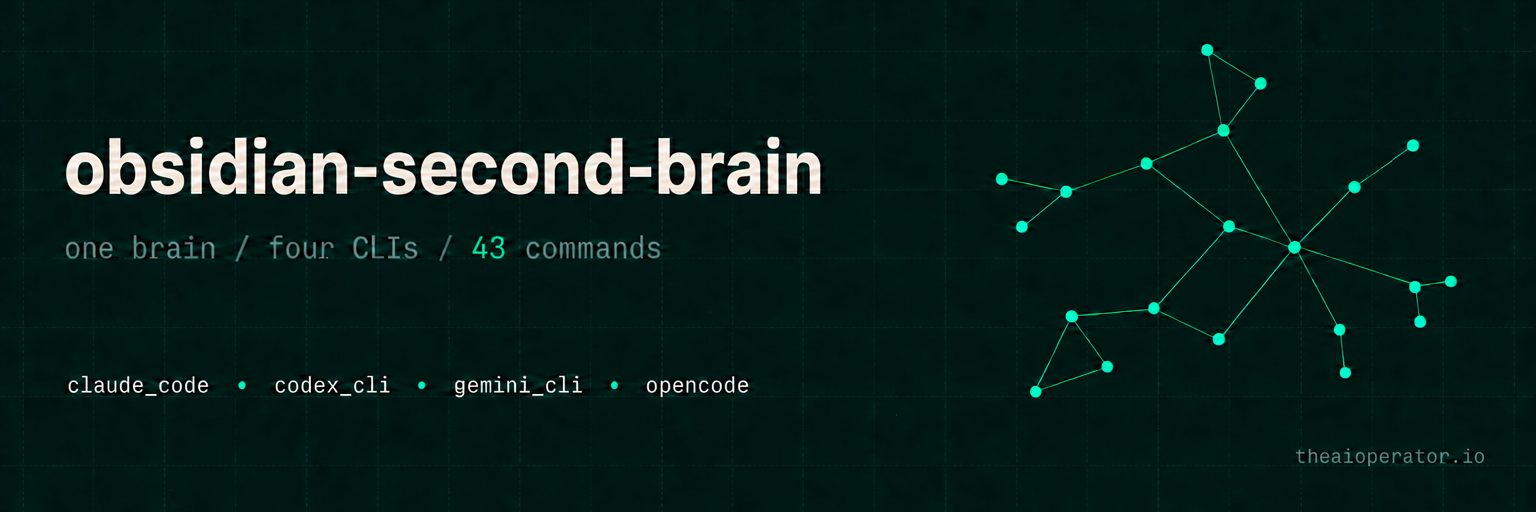
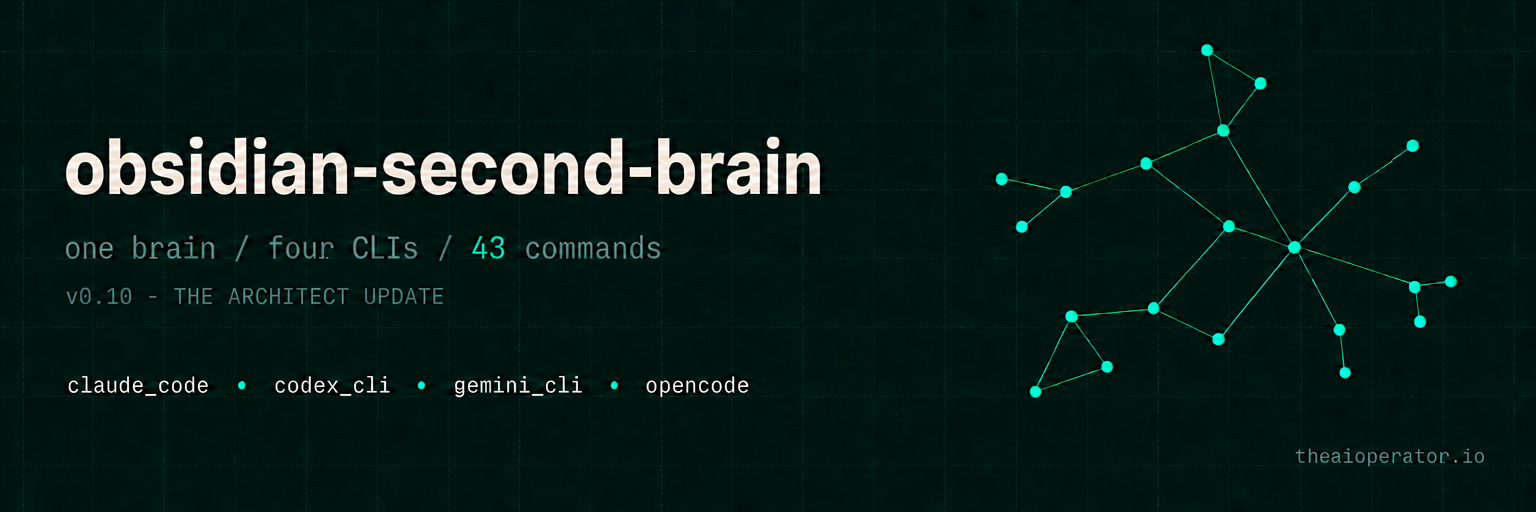
Release v0.10.0 - The Architect
Roll the CHANGELOG [Unreleased] into [0.10.0] (2026-05-31, "The
Architect"). Bump version in pyproject.toml and CITATION.cff; JSON-LD
softwareVersion -> 0.10.0 and command count 32 -> 43; README what's-new
callout updated to highlight /obsidian-architect. Banner gains a
"v0.10 - THE ARCHITECT UPDATE" line.

Headline since 0.9.0: /obsidian-architect (codebase -> maintained vault
docs, sentinel-safe refresh), 4 commands (calendar reconcile,
vault-deep-synthesis, idea-discovery, panel), Codex executable runner,
commit-decisions miner, and a substitution-character CI gate. 43
commands total.

Also records the fork-merge project as complete in FORK_INSIGHTS.md:
~32 of 50 shipped, every P0 done, with an explicit won't-do list for
the niche/untestable remainder.

diff --git a/_includes/head_custom.html b/_includes/head_custom.html
@@ -15,11 +15,11 @@
   "applicationCategory": "DeveloperApplication",
   "applicationSubCategory": "AI CLI skill",
   "operatingSystem": "macOS, Linux",
-  "description": "A cross-CLI skill that turns any Obsidian vault into a living AI-first second brain. Runs in Claude Code, OpenAI Codex CLI, Google Gemini CLI, and OpenCode from one platform-neutral source via a build-time adapter pattern. 32 commands across 4 categories (vault, thinking, research, meta). Includes a write-time AI-first validator hook and a /create-command interview flow. Open-source, MIT licensed.",
+  "description": "A cross-CLI skill that turns any Obsidian vault into a living AI-first second brain. Runs in Claude Code, OpenAI Codex CLI, Google Gemini CLI, and OpenCode from one platform-neutral source via a build-time adapter pattern. 43 commands across 4 categories (vault, thinking, research, meta). Includes a write-time AI-first validator hook and a /create-command interview flow. Open-source, MIT licensed.",
   "url": "https://github.com/eugeniughelbur/obsidian-second-brain",
   "downloadUrl": "https://github.com/eugeniughelbur/obsidian-second-brain",
   "license": "https://opensource.org/licenses/MIT",
-  "softwareVersion": "0.9.0",
+  "softwareVersion": "0.10.0",
   "offers": {
     "@type": "Offer",
     "price": "0",

diff --git a/FORK_INSIGHTS.md b/FORK_INSIGHTS.md
@@ -2,7 +2,24 @@
 
 Analysis date: 2026-05-30. Repo at analysis time: 1,462 stars, 166 forks (167 returned by the GitHub API).
 
-This is a roadmap doc, not a spec. It captures what every diverging fork built, ranked into 50 concrete additions for the upstream repo. Items are tagged P0 (highest-ROI quick win), P1 (strong), P2 (strategic). Each names the fork that proved it so the implementation can be cross-referenced against real code.
+This is a roadmap doc, not a spec. It captures what every diverging fork built, ranked into 50 concrete additions for the upstream repo. Items are tagged P0 (highest-ROI quick win), P1 (strong), P2 (strategic).
+
+## Build status (2026-05-31) - project complete
+
+Shipped ~32 of the 50 across PRs #45-55, in releases v0.9.0 and v0.10.0 ("The Architect"). Every P0 landed. Highlights: first tests + CI, anti-fabrication/false-absence guards, free key-less research mode, Google Calendar commands, `/obsidian-recurring`, calendar reconciliation, `/vault-deep-synthesis`, `/idea-discovery`, `/obsidian-panel`, the Codex executable runner, the commit-decisions miner, the substitution-character CI gate, sentinel-safe regeneration, and `/obsidian-architect` (codebase -> vault docs). Command count: 43.
+
+**Won't do (intentional, not backlog).** The remaining items were evaluated and consciously declined - keeping the skill lean beats covering every fork idea:
+
+- **Niche workflow commands** (`/obsidian-proposal`, `/obsidian-event`, `/obsidian-1on1`, `/obsidian-launch-block`) - profession-specific (sales, events, teaching, course launches); belong in domain forks per `ECOSYSTEM.md`, not the general skill.
+- **TS Obsidian plugins** (companion status, daily auto-open) - cannot be built or tested in this environment, and rated low portability (hardcoded to a personal machine's launchd stamps and vault paths). Shipping untested plugin code to a public repo is irresponsible.
+- **launchd review cadence** (daily/weekly/monthly/quarterly/yearly) - personal scheduling infra, machine-specific; the `claude -p` headless pattern and opt-in bg-agent already cover the general need.
+- **`/obsidian-dashboard`** - depends on the Dataview/Tasks plugins and overlaps existing commands.
+- **`/obsidian-normalize`** - exists to migrate a large legacy human-note corpus; the parent is AI-first from the start, so little to normalize.
+- **Nushell installers** - cannot test Nushell here; the bash installers + cross-platform fixes cover the need.
+- **Chinese README (i18n)** - ongoing translation-drift maintenance burden for a solo maintainer.
+- **`/obsidian-roadmap`, repomix integration** - folded into or deferred from the lean `/obsidian-architect` v1; revisit only if the architect grows.
+
+If any of these is wanted later, it is a deliberate new decision, not an oversight.
 
 ## Method
 

diff --git a/README.md b/README.md
@@ -48,8 +48,8 @@
 </p>
 
 <p align="center">
-  <strong>v0.9 (May 2026):</strong> <code>/research</code> and <code>/research-deep</code> now run with <strong>no API keys</strong> - free, key-less sources with Claude doing the synthesis.<br/>
-  <em>Plus Google Calendar commands, anti-hallucination guards, and the first automated tests + CI.</em><br/>
+  <strong>v0.10 - The Architect (May 2026):</strong> new <code>/obsidian-architect</code> scans a codebase and writes maintained architecture notes into your vault - refreshable, never clobbering your edits.<br/>
+  <em>Plus free key-less research, Google Calendar commands, anti-hallucination guards, and tests + CI.</em><br/>
   <a href="CHANGELOG.md">See the changelog &rarr;</a>
 </p>
 

diff --git a/CHANGELOG.md b/CHANGELOG.md
@@ -6,6 +6,8 @@ The format is based on [Keep a Changelog](https://keepachangelog.com/en/1.1.0/),
 
 ## [Unreleased]
 
+## [0.10.0] - 2026-05-31 - The Architect
+
 ### Added
 
 - **`/obsidian-architect` - scan a codebase into maintained architecture notes.** A deterministic scanner (`scripts/architect_scan.py`, stdlib-only) reports the stack, proposed modules, dependencies, entry points, and git commit; Claude then synthesizes an overview (with a Mermaid diagram and inferred personas), one note per core module, and a key-decisions note (fed by `mine_commit_decisions.py`), written under `Projects/<name>/Architecture/` as AI-first notes (`type: architecture-overview` + `type: architecture-module`). Re-running refreshes in place via **sentinel markers** (`<!-- @generated -->` / `<!-- @user -->`) that update only generated blocks and never overwrite hand-edits - a reusable write primitive now documented in `references/write-rules.md`. A lean v1 (one scanner + one command, not the source fork's 27-module suite). For the builder-heavy audience: code projects documented in the same brain as ideas and decisions. (FORK_INSIGHTS.md #20, #21, #22, #25.)